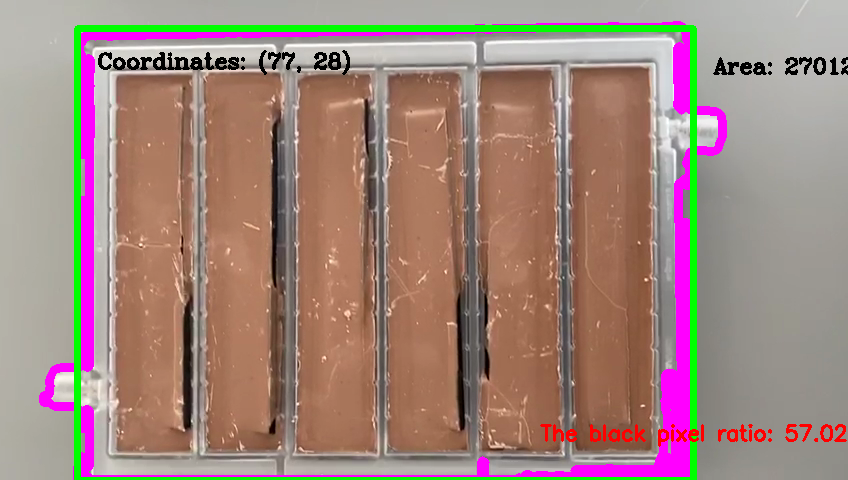
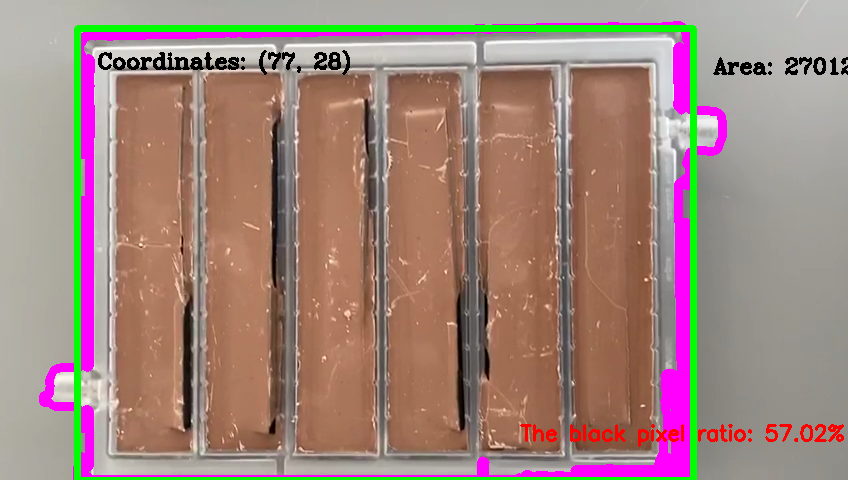
replaced opencv_frame_0.png

Changed region(s): [[0.6132, 0.875, 1.0, 0.9375]]

diff --git a/color/contouring_video.py b/color/contouring_video.py
@@ -133,7 +133,7 @@ def getContours(img,imgContour,img_counter,start,end):
                 ratio = round((licorice/total_pixel_num)*10000,2)
 
                 the_ratio_str = "The black pixel ratio: " + str(round((licorice/total_pixel_num)*10000,2)) + "%"
-                cv2.putText(imgContour, the_ratio_str, (540, 440), cv2.FONT_HERSHEY_SIMPLEX, 0.7, (0, 0, 255), 2)
+                cv2.putText(imgContour, the_ratio_str, (520, 440), cv2.FONT_HERSHEY_SIMPLEX, 0.7, (0, 0, 255), 2)
                 # print(the_ratio_str)
 
                 # Pixel detection check
